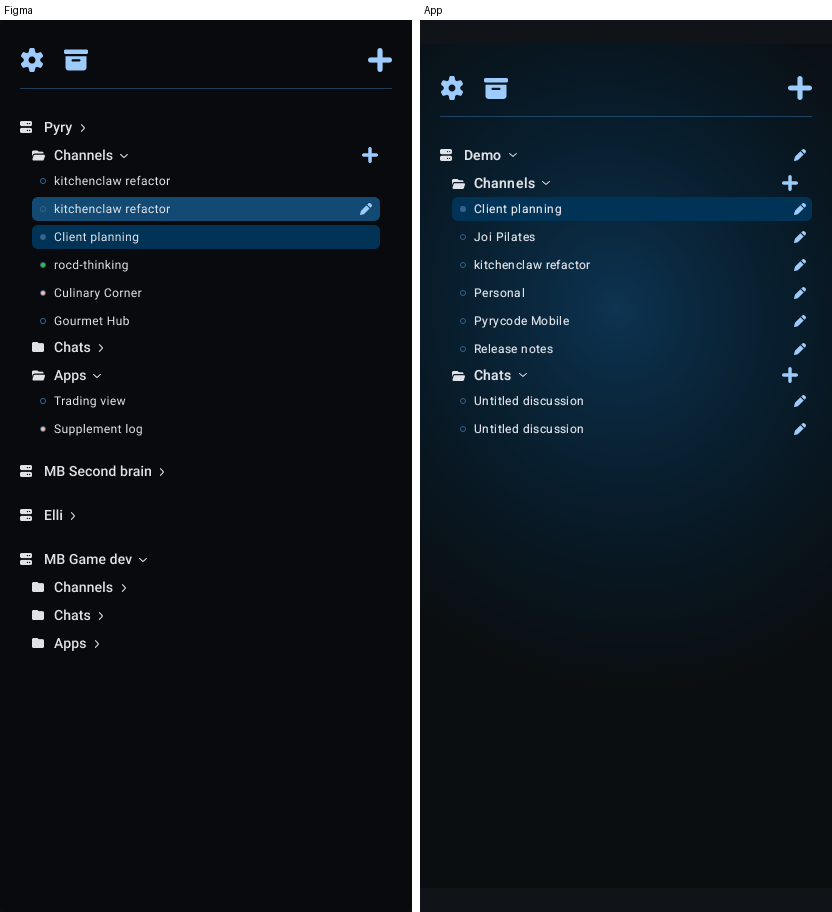
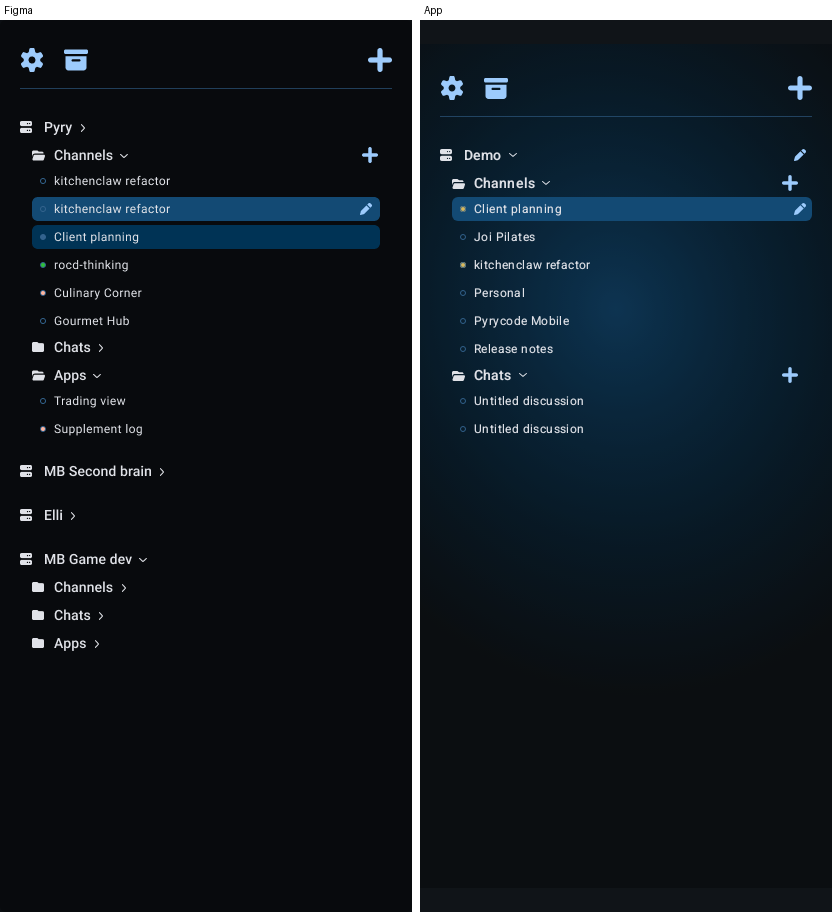
test(design): capture the channel list's waiting marks against 640:2440 (#1507)
DesignInputs feeds hostModal and questionBatch to the list through its own
demo HostConversationSource; promptsWaitInTheirOwnChats asserts both rows'
waiting marks and re-captures switch-list. Index item 640:2437 records the
verdict and routes the frame's missing waiting fill to #1593.

Changed region(s): [[0.5312, 0.2149, 1.0, 0.2456]]

diff --git a/app/src/androidTest/java/de/pyryco/mobile/design/DesignInputs.kt b/app/src/androidTest/java/de/pyryco/mobile/design/DesignInputs.kt
@@ -9,7 +9,9 @@ import de.pyryco.mobile.data.model.ConnectionState
 import de.pyryco.mobile.data.model.ConnectionStatus
 import de.pyryco.mobile.data.model.HostModalState
 import de.pyryco.mobile.data.model.LiveSessionEvent
+import de.pyryco.mobile.data.model.PyrycodeLinkStatus
 import de.pyryco.mobile.data.model.QuestionBatch
+import de.pyryco.mobile.data.model.RelayLinkStatus
 import de.pyryco.mobile.data.network.RelayConnectionController
 import de.pyryco.mobile.data.repository.AttachmentOffer
 import de.pyryco.mobile.data.repository.ConnectionStateSource
@@ -18,15 +20,25 @@ import de.pyryco.mobile.data.repository.ConversationRepository
 import de.pyryco.mobile.data.repository.FakeConversationRepository
 import de.pyryco.mobile.data.repository.SessionFacts
 import de.pyryco.mobile.di.ConversationViewing
+import de.pyryco.mobile.di.HostConversationConnection
+import de.pyryco.mobile.di.HostConversationSource
 import de.pyryco.mobile.di.RelayConnectionRegistry
 import de.pyryco.mobile.di.ThreadDestinationFactory
 import de.pyryco.mobile.ui.conversations.thread.AttachmentReader
 import de.pyryco.mobile.ui.conversations.thread.ThreadViewModel
 import de.pyryco.mobile.ui.onboarding.PairCodeViewModel
 import de.pyryco.mobile.ui.onboarding.ScannerViewModel
+import kotlinx.coroutines.CoroutineScope
+import kotlinx.coroutines.Dispatchers
+import kotlinx.coroutines.SupervisorJob
+import kotlinx.coroutines.cancel
 import kotlinx.coroutines.flow.MutableSharedFlow
 import kotlinx.coroutines.flow.MutableStateFlow
+import kotlinx.coroutines.flow.SharingStarted
 import kotlinx.coroutines.flow.first
+import kotlinx.coroutines.flow.map
+import kotlinx.coroutines.flow.stateIn
+import org.koin.core.context.GlobalContext
 import org.koin.core.context.loadKoinModules
 import org.koin.core.module.Module
 import org.koin.core.module.dsl.viewModel
@@ -41,6 +53,10 @@ import org.koin.dsl.module
  * Every thread input applies to whichever thread opens. The question batch, roster, count and repository
  * flows ignore the conversation id here. [hostModal] does not: the view model scopes it with
  * `HostModalState.scopedTo`, so a prompt shows only when its `conversationId` is the open thread's.
+ *
+ * [install] also replaces the app's `HostConversationSource` with one demo host whose prompts are
+ * [hostModal] and [questionBatch] (#1507), so the channel list marks each prompt's conversation Waiting, as
+ * production's one host source does for both screens. With both empty the list draws as it did before.
  */
 class DesignInputs {
     val connectionState = MutableStateFlow<ConnectionState>(ConnectionState.Connected)
@@ -95,9 +111,39 @@ class DesignInputs {
                 "contextUsage" to contextUsage,
             )
 
-    fun install() = loadKoinModules(module())
+    private val scope = CoroutineScope(SupervisorJob() + Dispatchers.Default)
+    private var appSource: HostConversationSource? = null
+    private var listSource: HostConversationSource? = null
 
-    fun uninstall() = loadKoinModules(appDefinitions())
+    fun install() {
+        val koin = GlobalContext.get()
+        appSource = koin.get<HostConversationSource>()
+        val fake = koin.get<FakeConversationRepository>()
+        val demo =
+            HostConversationConnection(
+                HostConversationSource.DEMO_SERVER_ID,
+                "Demo",
+                MutableStateFlow(fake),
+                MutableStateFlow(ConnectionStatus(RelayLinkStatus.Connected, PyrycodeLinkStatus.Connected)),
+                modals = hostModal,
+                questionBatches = questionBatch.map { listOfNotNull(it) }.stateIn(scope, SharingStarted.Eagerly, emptyList()),
+            )
+        val source =
+            HostConversationSource(
+                MutableStateFlow(listOf(demo)),
+                { if (it == HostConversationSource.DEMO_SERVER_ID) fake else null },
+                viewing = koin.get(),
+            )
+        listSource = source
+        loadKoinModules(listOf(module(), module { single { source } }))
+    }
+
+    fun uninstall() {
+        val original = appSource
+        loadKoinModules(if (original == null) listOf(appDefinitions()) else listOf(appDefinitions(), module { single { original } }))
+        listSource?.dispose()
+        scope.cancel()
+    }
 
     private fun module(): Module =
         module {

diff --git a/app/src/androidTest/java/de/pyryco/mobile/design/PromptsDesignCaptureTest.kt b/app/src/androidTest/java/de/pyryco/mobile/design/PromptsDesignCaptureTest.kt
@@ -13,6 +13,7 @@ import androidx.compose.ui.test.SemanticsMatcher
 import androidx.compose.ui.test.SemanticsNodeInteraction
 import androidx.compose.ui.test.assertIsDisplayed
 import androidx.compose.ui.test.getUnclippedBoundsInRoot
+import androidx.compose.ui.test.hasContentDescription
 import androidx.compose.ui.test.hasScrollToNodeAction
 import androidx.compose.ui.test.hasSetTextAction
 import androidx.compose.ui.test.hasTestTag
@@ -157,6 +158,10 @@ class PromptsDesignCaptureTest {
         secureCapture("switch-question-chat", "636:3279")
 
         back()
+        // #1507: the list reads the same prompts, so both waiting rows carry the mark and the third does not.
+        awaitMark(CLIENT, WAITING)
+        awaitMark(KITCHEN, WAITING)
+        awaitMark(OTHER, "Idle")
         secureCapture("switch-list", "640:2440", expectSecure = false)
 
         open(OTHER, ids, draft = null)
@@ -196,6 +201,16 @@ class PromptsDesignCaptureTest {
         awaitQuestion()
         assertNoPermission()
         assertEquals("the composer draft stays with its chat", "My message", thread().draft.value)
+    }
+
+    /** The row named [name] shows the attention dot described [mark]; the row merges the dot's description. */
+    private fun awaitMark(
+        name: String,
+        mark: String,
+    ) {
+        val row = hasText(name) and hasContentDescription(mark)
+        rule.waitUntil(5_000) { rule.onAllNodes(row).fetchSemanticsNodes().size == 1 }
+        rule.onNode(row).assertIsDisplayed()
     }
 
     /** The view model's own state, not a lazily composed node, decides that no batch reached this chat. */
@@ -477,5 +492,6 @@ class PromptsDesignCaptureTest {
         const val KITCHEN = "kitchenclaw refactor"
         const val OTHER = "Release notes"
         const val GRANT_LABEL = "Don't ask again this session for:"
+        const val WAITING = "Waiting for your answer"
     }
 }

diff --git a/app/src/androidTest/assets/design-1220/prompts/index.md b/app/src/androidTest/assets/design-1220/prompts/index.md
@@ -29,6 +29,10 @@
   here, and every comparison, comes from that run; the question keyboard capture showed the 240 px test IME. Each
   `.txt` now also records `spPx`, the pixels the platform renders 14, 16, 20, 22, 24 and 28 sp as at the capture's
   font scale.
+- **#1507 re-capture:** `switch-list.png` and its two comparisons come from `promptsWaitInTheirOwnChats` run
+  alone on `feature/1507` (merge base `45179f64`), on the same device and arguments: 1 executed, 0 failed,
+  0 skipped. Only that capture changed: the list now reads the prompts, so two rows show the waiting mark. Every
+  other file here is still #1501's.
 - **#1543 redraw:** the two compact frames (`639:3308`, `636:4066`) were redrawn at Android's 150 % on 2026-10-02
   and exported again with `get_screenshot`. Type sizes and line boxes follow `spPx`; the 11 and 12 sp sizes, which
   `spPx` does not list, scale by 1.5 in the platform's table. The button labels' letter spacing is 1.5 times the
@@ -337,11 +341,30 @@ heights, gaps and box sizes. Text is compared by glyph height, and a run up to 4
     "Release notes" and returns, and `armedOptionId` is null with the permission still shown.
   - Composer drafts stay with their chat: back in "Release notes" the draft is "Release notes draft", and back
     in "Client planning" it is still "My message". Neither is set again on return.
+- **List waiting marks (#1507).** `DesignInputs` now also replaces the app's `HostConversationSource` with one
+  demo host whose prompts are `hostModal` and `questionBatch`. The list therefore reads the same prompts as the
+  thread. Before the `switch-list` capture the test asserts that the "Client planning" and "kitchenclaw refactor"
+  rows read "Waiting for your answer" and "Release notes" reads "Idle". `switch-list.png` and its comparisons
+  were re-captured on `feature/1507` (merge base `45179f64`). The method ran alone on the same device and
+  arguments: 1 executed, 0 failed, 0 skipped. Positions are measured against `get_metadata`: the Hosts frame is
+  at (20, 93), the channel list at +4 / +28 inside it, rows 24 px tall on a 28 px pitch with 8 px left padding,
+  and a 6x11 status-dot slot whose circle has centre (3, 8) and r 2.5.
+  - **Shape:** match. Both rows draw a 6x6 px dot (x 40 to 45) in the app and in the frame.
+  - **Position:** match. In both, the dot spans x 40 to 45 and rows 9 to 14 from its row's top: the app's "Client
+    planning" row 177 to 200 against dot 186 to 191, the frame's rows at 177 and 205 against dots 186 and 214.
+    The app orders the rows alphabetically, so "kitchenclaw refactor" is the third row (dot 242 to 247), where
+    the frame draws it first and second.
+  - **Colour:** mismatch on both rows, and the app is right. The app fills both dots with
+    `colorScheme.warning` (sampled `#D8B85A`) inside the shared ring, as desktop's `ConversationStatusDot` does.
+    The frame draws no waiting state. "Client planning" is filled `#32628D` (sampled 50,98,141), its own ring
+    colour. That is the Idle dot on the open row, the rule recorded for `15:8` under "Attention dot (#878)" in
+    `channel-list-screen-tree-and-controls.md`, on the same status-dot instance
+    (`I640:2440;103:2972;403:7411`). Both "kitchenclaw refactor" dots are hollow rings, although the board's
+    scenario has a permission waiting there. Routed to #1593, a Figma-only redraw.
+  - Row highlights are not marks: the frame highlights "Client planning" in `Schemes/On Primary` and the
+    second "kitchenclaw refactor" in `Schemes/Primary Container` (the pressed variant). The app highlights the
+    open "Client planning" only. Row surfaces are #1431's `15:8` audit.
 - **Not judged here, with the reason and the owner:**
-  - **List waiting marks.** `640:2440` draws "Client planning" with a filled status dot and the other rows
-    hollow. The harness feeds prompts to the thread's view model only, and the list reads
-    `ConversationAttention` from the host source, so every row in `switch-list.png` is idle. Routed to #1507,
-    a harness input and a capture against `640:2440`.
   - **Item 4, the session-grant checkbox kept across chats.** The override passes no `PermissionDraftStore`
     (`DesignInputs`), so each thread opening builds a fresh one and a ticked grant cannot survive the switch in
     the harness. Production binds the shared store; #1337 owns it and covers it in unit tests.
@@ -351,9 +374,10 @@ heights, gaps and box sizes. Text is compared by glyph height, and a run up to 4
 
 | Aspect | Verdict |
 |---|---|
-| Component state | match for what is judged: each prompt inside its own conversation, the list and another chat open and usable while both wait, the arm cleared on return and composer drafts kept. Not judged: the list's waiting marks (every row idle in the capture, against the filled dot in `640:2440`), the grant draft and question drafts across chats, as listed above |
+| Component state | match for what is judged: each prompt inside its own conversation, the list and another chat open and usable while both wait, the arm cleared on return and composer drafts kept. Not judged: the grant draft and question drafts across chats, as listed above |
+| Waiting marks | shape and position match on both rows. Colour mismatch: the app's warning fill is right, and the frame draws the open-row Idle fill on "Client planning" and hollow rings on "kitchenclaw refactor" (#1593) |
 
-- **Routed:** #1507 (list waiting marks against `640:2440`)
+- **Routed:** #1593 (the frame's waiting marks; Figma only)
 
 ## Gaps
 
